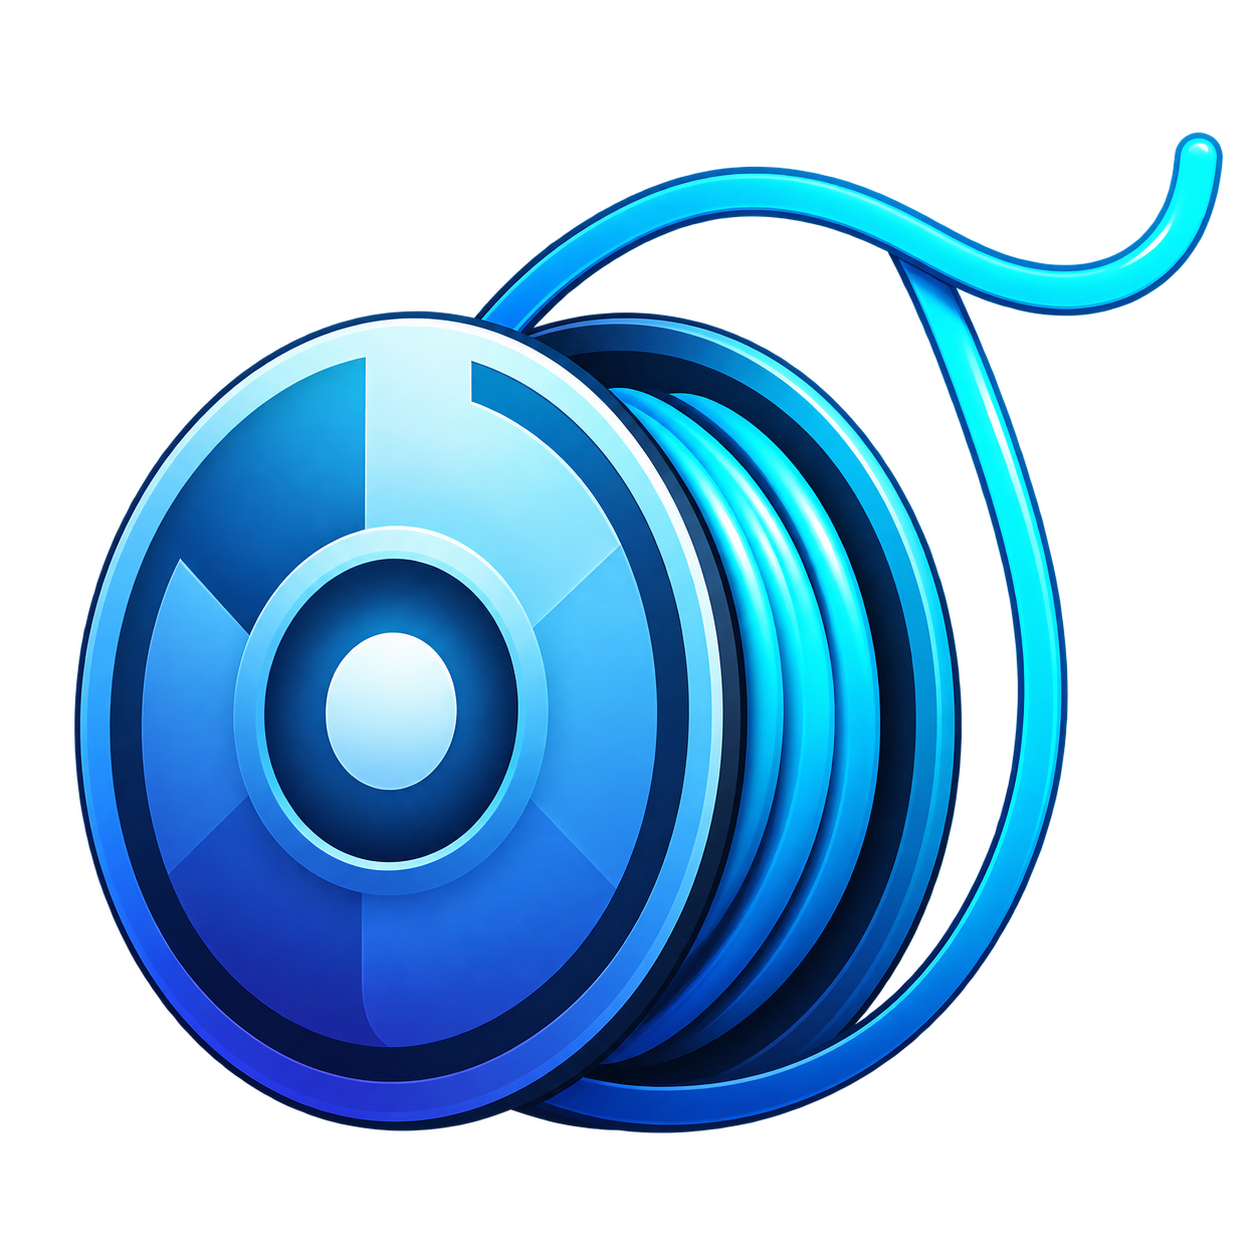
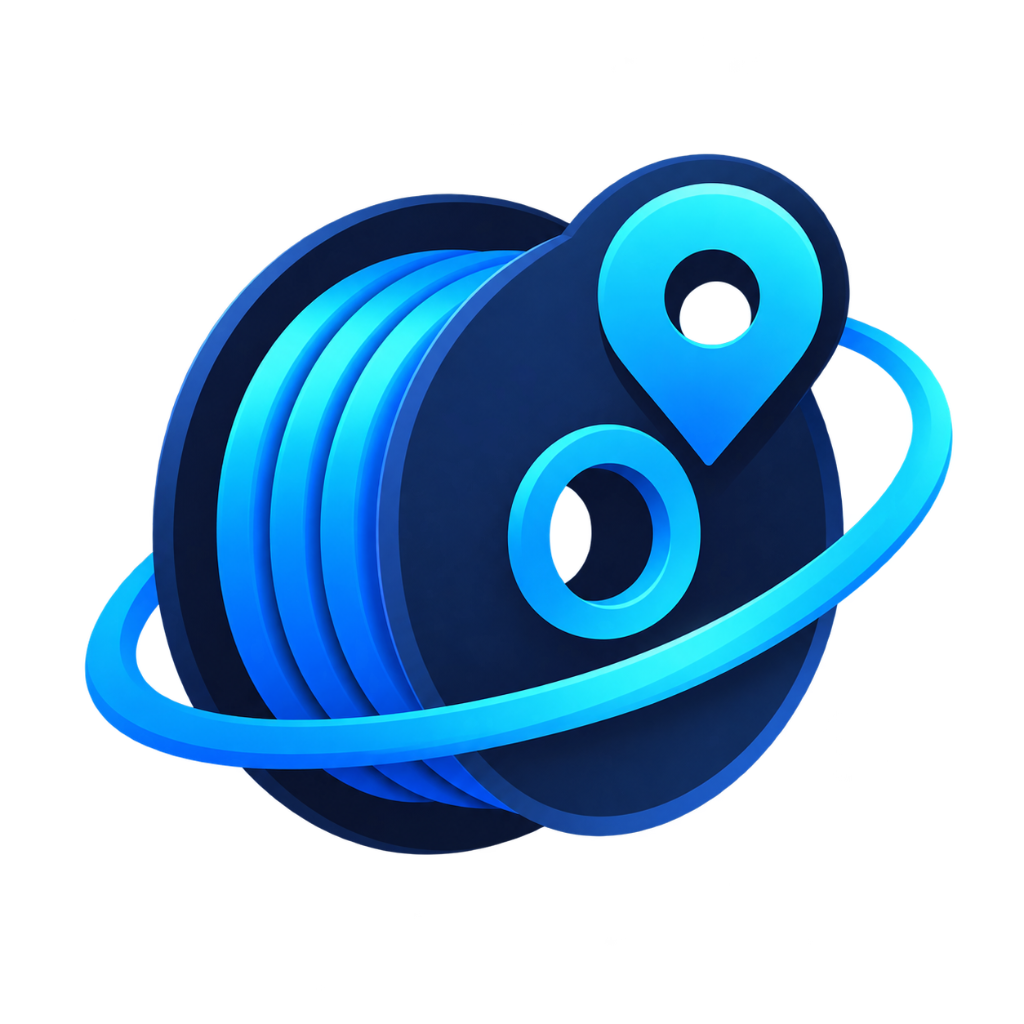
feat(web): aplicar nova identidade visual oficial no web-app

diff --git a/web-app/src/App.tsx b/web-app/src/App.tsx
@@ -2,12 +2,13 @@ import React, { useEffect, useRef, useState } from "react";
 import { Nfc } from "lucide-react";
 import { supabase } from "./lib/supabase";
 import { useNfc } from "./hooks/useNfc";
+import { FilamapLogo, FilamapIcon } from "./components/Brand";
 
 import type { Printer, Spool, CatalogItem, PrintLog } from "./types";
 import { POPULAR_BRANDS, TARE_PRESETS } from "./constants";
 import { isPrinterOnline, isPrinterLivePrinting } from "./utils/printer";
 import { generateAutoTagId, getNfcStatus } from "./utils/nfc";
-import { filterInventory, groupInventoryByMaterial, getSpoolDisplayName, getSpoolSwatchColor } from "./utils/inventory";
+import { filterInventory, groupInventoryByMaterial, getSpoolDisplayName, getSpoolSwatchColor, getSpoolBrandDisplay, getInPrinterCountDisplay } from "./utils/inventory";
 import { getPendingWeighingLogs, getWriterSpool, getActivePrinter } from "./utils/selectors";
 import {
   needsWeighing,
@@ -591,6 +592,7 @@ export default function App() {
 
   const sortedFilteredInventory = sortSpoolsForSpoolScreen(filteredInventory);
   const spoolsInPrinter = sortedFilteredInventory.filter((s) => s.bambu_in_printer);
+  const totalInPrinterCount = inventory.filter((s) => s.bambu_in_printer).length;
   const otherSpools = sortedFilteredInventory.filter((s) => !s.bambu_in_printer);
 
   const groupedByMaterial =
@@ -619,7 +621,7 @@ export default function App() {
           <div>
             <strong style={{ fontSize: 13, color: "#f8fafc" }}>{getSpoolDisplayName(spool)}</strong>
             <div style={{ fontSize: 11, color: "#94a3b8", display: "flex", alignItems: "center", gap: 6, marginTop: 2, flexWrap: "wrap" }}>
-              <span>{spool.brand} • {spool.material}</span>
+              <span>{getSpoolBrandDisplay(spool.brand, spool.material)} • {spool.material}</span>
               {getNfcStatus(spool) === "written" ? (
                 <span title={`Tag física gravada em ${new Date(spool.nfc_written_at!).toLocaleString()} — ${spool.nfc_uid}`} style={{ background: "rgba(52, 211, 153, 0.15)", color: "#34d399", border: "1px solid #059669", borderRadius: 10, padding: "1px 6px", fontSize: 10, fontWeight: 700 }}>✅ Tag gravada</span>
               ) : getNfcStatus(spool) === "pending" ? (
@@ -628,7 +630,7 @@ export default function App() {
                 <span style={{ background: "rgba(239, 68, 68, 0.15)", color: "#f87171", border: "1px solid #dc2626", borderRadius: 10, padding: "1px 6px", fontSize: 10, fontWeight: 700 }}>⚠ Sem tag</span>
               )}
               {spool.bambu_spool_id && (
-                <span title="Sincronizado da conta Bambu (Cloud Spool Sync)" style={{ background: "rgba(56, 189, 248, 0.15)", color: "#38bdf8", border: "1px solid #0284c7", borderRadius: 10, padding: "1px 6px", fontSize: 10, fontWeight: 700 }}>🌐 Bambu</span>
+                <span title="Origem do registro: sincronizado via ecossistema Bambu (Cloud Spool Sync)" style={{ background: "rgba(56, 189, 248, 0.15)", color: "#38bdf8", border: "1px solid #0284c7", borderRadius: 10, padding: "1px 6px", fontSize: 10, fontWeight: 700 }}>🌐 Sincronizado</span>
               )}
               {spoolNeedsWeighing && (
                 <span title="Peso ainda não foi conferido na balança pelo Filamap" style={{ background: "rgba(217, 119, 6, 0.18)", color: "#fbbf24", border: "1px solid #d97706", borderRadius: 10, padding: "1px 6px", fontSize: 10, fontWeight: 700 }}>⚠ Precisa pesagem</span>
@@ -668,10 +670,10 @@ export default function App() {
     return (
       <div style={{ minHeight: "100vh", display: "flex", alignItems: "center", justifyContent: "center", padding: 16, background: "#0f172a" }}>
         <div style={{ maxWidth: 380, width: "100%", background: "#1e293b", border: "1px solid #334155", borderRadius: 12, padding: 24, boxSizing: "border-box" }}>
-          <div style={{ textAlign: "center", marginBottom: 20 }}>
-            <span style={{ fontSize: 36 }}>🧵</span>
-            <h1 style={{ margin: "8px 0 0", fontSize: 24, color: "#38bdf8", fontWeight: 900 }}>FILAMAP</h1>
-            <p style={{ margin: "4px 0 0", color: "#94a3b8", fontSize: 12 }}>Acesso à Oficina & Estoque NFC</p>
+          <div style={{ textAlign: "center", marginBottom: 22, display: "flex", flexDirection: "column", alignItems: "center" }}>
+            <FilamapIcon size={64} style={{ marginBottom: 12, filter: "drop-shadow(0 4px 14px rgba(2, 132, 199, 0.4))" }} />
+            <FilamapLogo height={38} alt="FILAMAP" style={{ margin: "0 auto" }} />
+            <p style={{ margin: "8px 0 0", color: "#94a3b8", fontSize: 12, fontWeight: 500 }}>Acesso à Oficina &amp; Estoque NFC</p>
           </div>
           <form onSubmit={handleLogin} style={{ display: "flex", flexDirection: "column", gap: 14 }}>
             <div>
@@ -699,18 +701,20 @@ export default function App() {
           0% { transform: translate(-50%, -50%) scale(0.85); opacity: 0.55; }
           100% { transform: translate(-50%, -50%) scale(1.9); opacity: 0; }
         }
+        @media (max-width: 520px) {
+          .filamap-header-sub { display: none !important; }
+        }
       `}</style>
       {/* Topo */}
       <header style={{ borderBottom: "1px solid #334155", paddingBottom: 14, marginBottom: 16 }}>
         <div style={{ display: "flex", justifyContent: "space-between", alignItems: "center", marginBottom: 12 }}>
-          <div style={{ display: "flex", alignItems: "center", gap: 10 }}>
-            <span style={{ fontSize: 26 }}>🧵</span>
-            <div>
-              <h1 style={{ margin: 0, fontSize: 22, color: "#38bdf8", fontWeight: 900, letterSpacing: "-0.02em" }}>FILAMAP</h1>
-              <p style={{ margin: 0, color: "#94a3b8", fontSize: 11 }}>Bambu Lab A1 & Estoque NFC</p>
+          <div style={{ display: "flex", alignItems: "center", gap: 12, minWidth: 0 }}>
+            <FilamapLogo height={36} alt="FILAMAP" />
+            <div className="filamap-header-sub" style={{ borderLeft: "1px solid #334155", paddingLeft: 10, display: "flex", flexDirection: "column", justifyContent: "center" }}>
+              <p style={{ margin: 0, color: "#94a3b8", fontSize: 11, fontWeight: 500, whiteSpace: "nowrap" }}>Bambu Lab A1 &amp; Estoque NFC</p>
             </div>
           </div>
-          <div style={{ display: "flex", gap: 8, alignItems: "center" }}>
+          <div style={{ display: "flex", gap: 8, alignItems: "center", flexShrink: 0 }}>
             <span style={{ padding: "4px 10px", borderRadius: 16, fontSize: 11, fontWeight: 700, background: printerOnline ? "rgba(16, 185, 129, 0.2)" : "rgba(239, 68, 68, 0.2)", color: printerOnline ? "#34d399" : "#f87171", border: `1px solid ${printerOnline ? "#059669" : "#dc2626"}` }}>
               {printerOnline ? "ONLINE" : "OFFLINE"}
             </span>
@@ -885,13 +889,19 @@ export default function App() {
             </div>
           )}
 
-          {spoolsInPrinter.length > 0 && (
+          {totalInPrinterCount > 0 && (
             <div style={{ background: "#0f172a", borderRadius: 10, border: "1px solid #38bdf8", overflow: "hidden", marginBottom: 16 }}>
               <div style={{ padding: "10px 14px", background: "rgba(2, 132, 199, 0.15)", borderBottom: "1px solid #334155" }}>
-                <strong style={{ color: "#38bdf8" }}>📍 Na Impressora Agora ({spoolsInPrinter.length})</strong>
+                <strong style={{ color: "#38bdf8" }}>📍 Na Impressora Agora {getInPrinterCountDisplay(spoolsInPrinter.length, totalInPrinterCount)}</strong>
               </div>
               <div style={{ padding: 10, display: "flex", flexDirection: "column", gap: 8 }}>
-                {spoolsInPrinter.map((spool) => renderSpoolCard(spool))}
+                {spoolsInPrinter.length > 0 ? (
+                  spoolsInPrinter.map((spool) => renderSpoolCard(spool))
+                ) : (
+                  <div style={{ padding: "10px", textAlign: "center", color: "#94a3b8", fontSize: 12 }}>
+                    Nenhum carretel na impressora corresponde aos filtros aplicados.
+                  </div>
+                )}
               </div>
             </div>
           )}
@@ -1288,7 +1298,7 @@ export default function App() {
             <h3 style={{ margin: "0 0 10px", color: "#fff" }}>⚖ Re-pesar {getSpoolDisplayName(weighingSpool)}</h3>
             {needsWeighing(weighingSpool) && (
               <p style={{ margin: "0 0 10px", color: "#fbbf24", fontSize: 12 }}>
-                Este carretel veio da Bambu e ainda não foi pesado no Filamap -- o peso {weighingSpool.current_weight}g é só um valor padrão.
+                Este carretel foi sincronizado via ecossistema Bambu e ainda não foi pesado no Filamap -- o peso {weighingSpool.current_weight}g é só um valor padrão.
               </p>
             )}
             <form onSubmit={handleSaveWeigh} style={{ display: "flex", flexDirection: "column", gap: 12 }}>

diff --git a/web-app/src/utils/inventory.test.ts b/web-app/src/utils/inventory.test.ts
@@ -1,14 +1,36 @@
 import { describe, it, expect } from "vitest";
 import {
   isHexColor,
+  getSpoolBrandDisplay,
   getSpoolDisplayName,
   getSpoolSwatchColor,
   filterInventory,
   groupInventoryByMaterial,
+  getInPrinterCountDisplay,
 } from "./inventory";
 import type { Spool } from "../types";
 
 describe("inventory utils", () => {
+  describe("getSpoolBrandDisplay", () => {
+    it("returns brand name when valid and distinct from material", () => {
+      expect(getSpoolBrandDisplay("Bambu Lab", "PLA")).toBe("Bambu Lab");
+      expect(getSpoolBrandDisplay("Voolt3D", "PLA")).toBe("Voolt3D");
+      expect(getSpoolBrandDisplay("Easy Print", "PETG")).toBe("Easy Print");
+      expect(getSpoolBrandDisplay("MasterPrint", "PETG")).toBe("MasterPrint");
+    });
+
+    it("returns 'Genérico' when brand is equal to material, empty, or placeholder", () => {
+      expect(getSpoolBrandDisplay("PLA", "PLA")).toBe("Genérico");
+      expect(getSpoolBrandDisplay("petg", "PETG")).toBe("Genérico");
+      expect(getSpoolBrandDisplay("+", "PLA")).toBe("Genérico");
+      expect(getSpoolBrandDisplay("-", "PLA")).toBe("Genérico");
+      expect(getSpoolBrandDisplay("Generic", "PLA")).toBe("Genérico");
+      expect(getSpoolBrandDisplay("", "PLA")).toBe("Genérico");
+      expect(getSpoolBrandDisplay(null, "PLA")).toBe("Genérico");
+      expect(getSpoolBrandDisplay(undefined, "PLA")).toBe("Genérico");
+    });
+  });
+
   describe("isHexColor", () => {
     it("identifies 3, 6, and 8 character hex codes with and without hash", () => {
       expect(isHexColor("#161616")).toBe(true);
@@ -175,6 +197,20 @@ describe("inventory utils", () => {
       ];
       const grouped = groupInventoryByMaterial(inventory);
       expect(grouped["PLA"]).toHaveLength(2);
+    });
+  });
+
+  describe("getInPrinterCountDisplay", () => {
+    it("shows simple count when visible equals total physical count", () => {
+      expect(getInPrinterCountDisplay(3, 3)).toBe("(3)");
+      expect(getInPrinterCountDisplay(1, 1)).toBe("(1)");
+      expect(getInPrinterCountDisplay(0, 0)).toBe("(0)");
+    });
+
+    it("shows 'X de Y' when filters hide some installed spools", () => {
+      expect(getInPrinterCountDisplay(2, 3)).toBe("(2 de 3)");
+      expect(getInPrinterCountDisplay(1, 3)).toBe("(1 de 3)");
+      expect(getInPrinterCountDisplay(0, 3)).toBe("(0 de 3)");
     });
   });
 });

diff --git a/web-app/src/utils/inventory.ts b/web-app/src/utils/inventory.ts
@@ -5,6 +5,26 @@ export function isHexColor(val: string | null | undefined): boolean {
   return /^#?([0-9A-Fa-f]{3}|[0-9A-Fa-f]{6}|[0-9A-Fa-f]{8})$/.test(val.trim());
 }
 
+export function getSpoolBrandDisplay(
+  brand: string | null | undefined,
+  material?: string | null
+): string {
+  const cleanBrand = brand?.trim();
+  const cleanMat = material?.trim();
+  if (
+    !cleanBrand ||
+    cleanBrand === "+" ||
+    cleanBrand === "-" ||
+    cleanBrand.toLowerCase() === "generic"
+  ) {
+    return "Genérico";
+  }
+  if (cleanMat && cleanBrand.toUpperCase() === cleanMat.toUpperCase()) {
+    return "Genérico";
+  }
+  return cleanBrand;
+}
+
 export function getSpoolDisplayName(spool: Partial<Spool> | null | undefined): string {
   if (!spool) return "Sem carretel";
   const colorName = spool.color_name?.trim();
@@ -78,4 +98,14 @@ export function groupInventoryByMaterial(
     },
     {}
   );
+}
+
+export function getInPrinterCountDisplay(
+  visibleCount: number,
+  totalCount: number
+): string {
+  if (visibleCount === totalCount) {
+    return `(${totalCount})`;
+  }
+  return `(${visibleCount} de ${totalCount})`;
 }

diff --git a/web-app/src/components/Brand.tsx b/web-app/src/components/Brand.tsx
@@ -1,0 +1,43 @@
+import React from "react";
+
+interface LogoProps extends React.ImgHTMLAttributes<HTMLImageElement> {
+  height?: number | string;
+}
+
+export function FilamapLogo({ height = 36, style, alt = "FILAMAP", ...props }: LogoProps) {
+  return (
+    <img
+      src="/filamap-logo.png"
+      alt={alt}
+      style={{
+        height: typeof height === "number" ? `${height}px` : height,
+        width: "auto",
+        objectFit: "contain",
+        display: "block",
+        ...style,
+      }}
+      {...props}
+    />
+  );
+}
+
+interface IconProps extends React.ImgHTMLAttributes<HTMLImageElement> {
+  size?: number | string;
+}
+
+export function FilamapIcon({ size = 32, style, alt = "FILAMAP Icon", ...props }: IconProps) {
+  return (
+    <img
+      src="/filamap-icon.png"
+      alt={alt}
+      style={{
+        width: typeof size === "number" ? `${size}px` : size,
+        height: typeof size === "number" ? `${size}px` : size,
+        objectFit: "contain",
+        display: "block",
+        ...style,
+      }}
+      {...props}
+    />
+  );
+}

diff --git a/web-app/index.html b/web-app/index.html
@@ -1,4 +1,4 @@
-<!doctype html>
+<!doctype html>
 <html lang="pt-BR">
   <head>
     <meta charset="UTF-8" />
